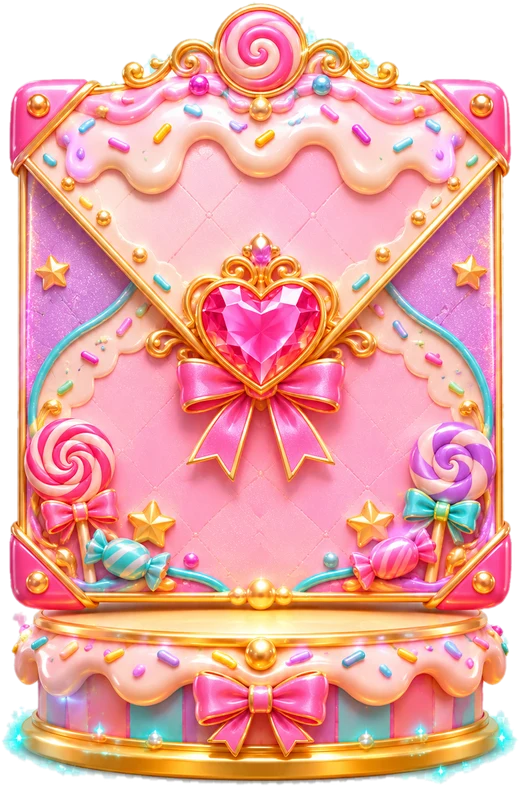
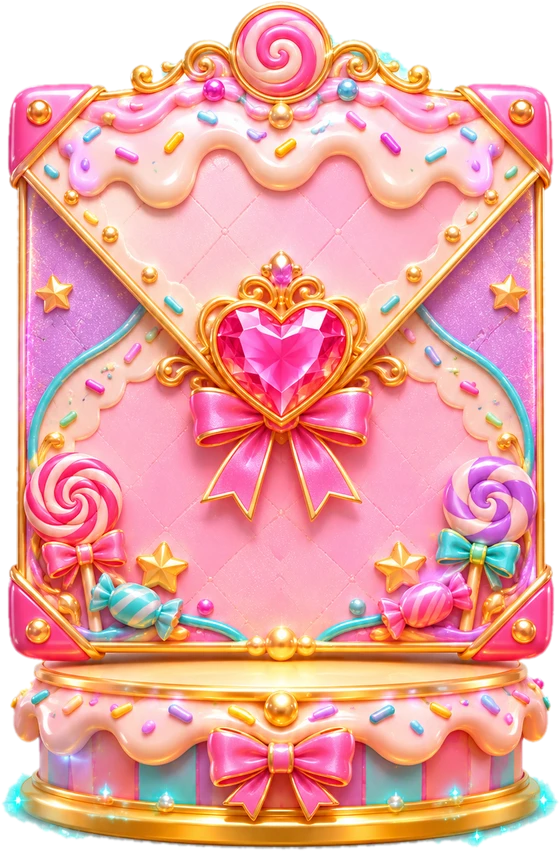
Corrida: envelope em pé após a chegada (PNG transparente limpo) e carro mais rápido
Claude-Session: https://claude.ai/code/session_01QZbZVRANtAJv3WSFCYWHUd

diff --git a/js/race.js b/js/race.js
@@ -1,8 +1,8 @@
 /* Candy Kart Race — deslize para trocar de faixa, desvie dos obstáculos, pegue doces e cruze a linha de chegada. */
 SR.games.race = { start: function (root, ctx) {
   var HORIZON = 574, VX = 470, CAR_Y = 1470, LANE = 320;                    // geometria da pista na arte (941x1672)
-  var ENV_Z = 350, ENV_LIFT = 600, ENV_W = 480;                                // envelope flutuando depois da chegada
-  var LENGTH = ctx.length || 21000, BASE = 920, FAR = 5200, K = 1000;       // comprimento, velocidade (u/s), alcance e perspectiva
+  var ENV_Z = 420, ENV_LIFT = 0, ENV_W = 330;                                // envelope em pé depois da chegada
+  var LENGTH = ctx.length || 21000, BASE = 1350, FAR = 5200, K = 1000;       // comprimento, velocidade (u/s), alcance e perspectiva
   var OBST = [ { n: "poca_rosa", w: 330, slow: 0.55, crash: false }, { n: "poca_choco", w: 330, slow: 0.55, crash: false }, { n: "rolo", w: 300, slow: 0.35, crash: true }, { n: "muro", w: 330, slow: 0.3, crash: true } ];
   var CANDY = [ { n: "estrela", w: 110 }, { n: "gominha", w: 100 }, { n: "bala_ovo", w: 120 }, { n: "embrulho", w: 125 }, { n: "cupcake", w: 90 }, { n: "choco", w: 105 } ];
   var timers = [], stopLoop, running = false, over = false, dist = 0, speedMul = 1, slowT = 0, candies = 0, hits = 0, lane = 1, carX = 0, targetX = 0, items = [], dashes = [];

diff --git a/css/app.css b/css/app.css
@@ -168,5 +168,4 @@ button{font-family:var(--font)}
 .stage.fill .go{font-size:6.2cqw;padding:1.4cqw 5cqw 2.2cqw}
 .stage.fill .go.sec{font-size:5cqw}
 
-.obj.env img{filter:drop-shadow(0 0 3cqw #fff9) drop-shadow(0 2cqw 2cqw #4a1d3a66);animation:envfloat 1.6s ease-in-out infinite alternate}
-@keyframes envfloat{from{transform:translateY(0) rotate(-1.5deg)}to{transform:translateY(-3.2cqw) rotate(1.5deg)}}
+.obj.env img{filter:drop-shadow(0 1.6cqw 1.6cqw #4a1d3a77)}
